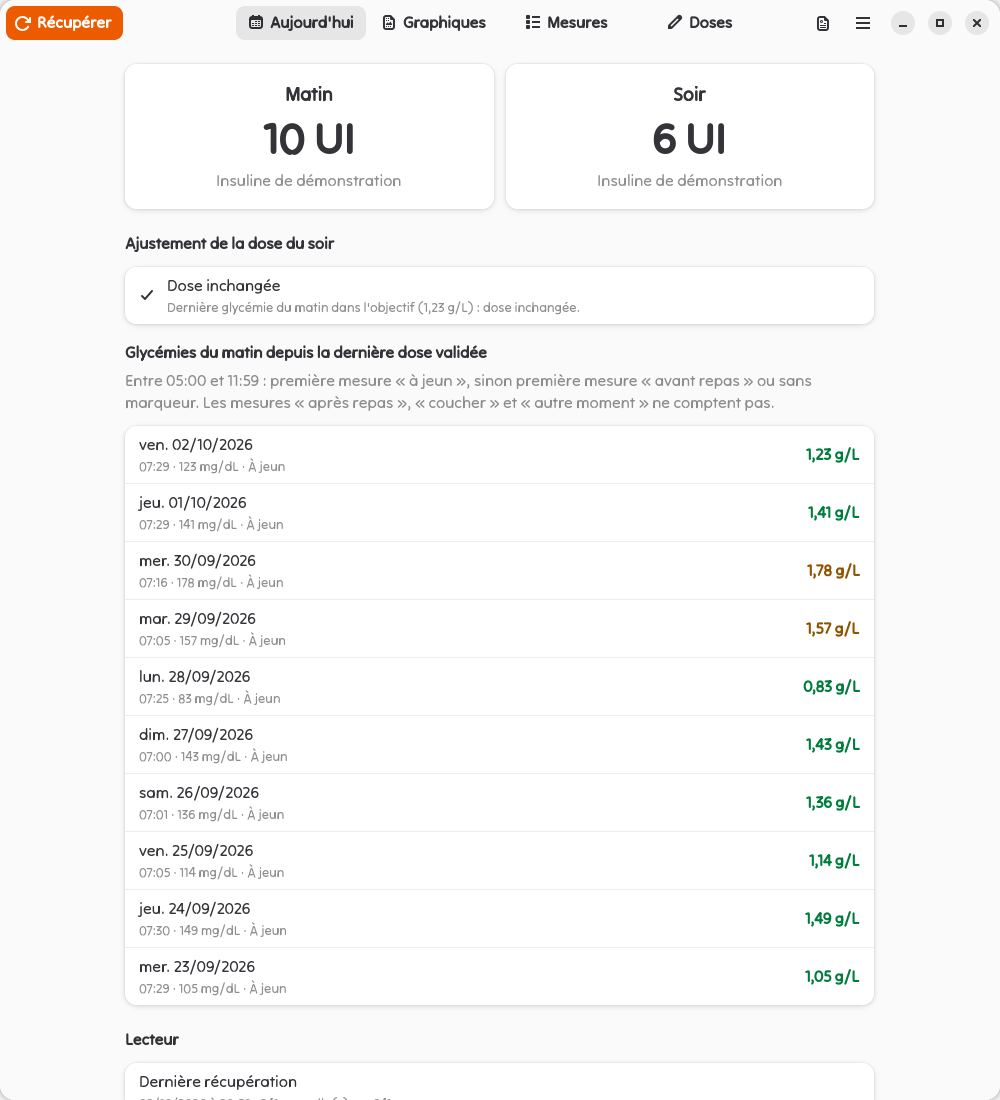
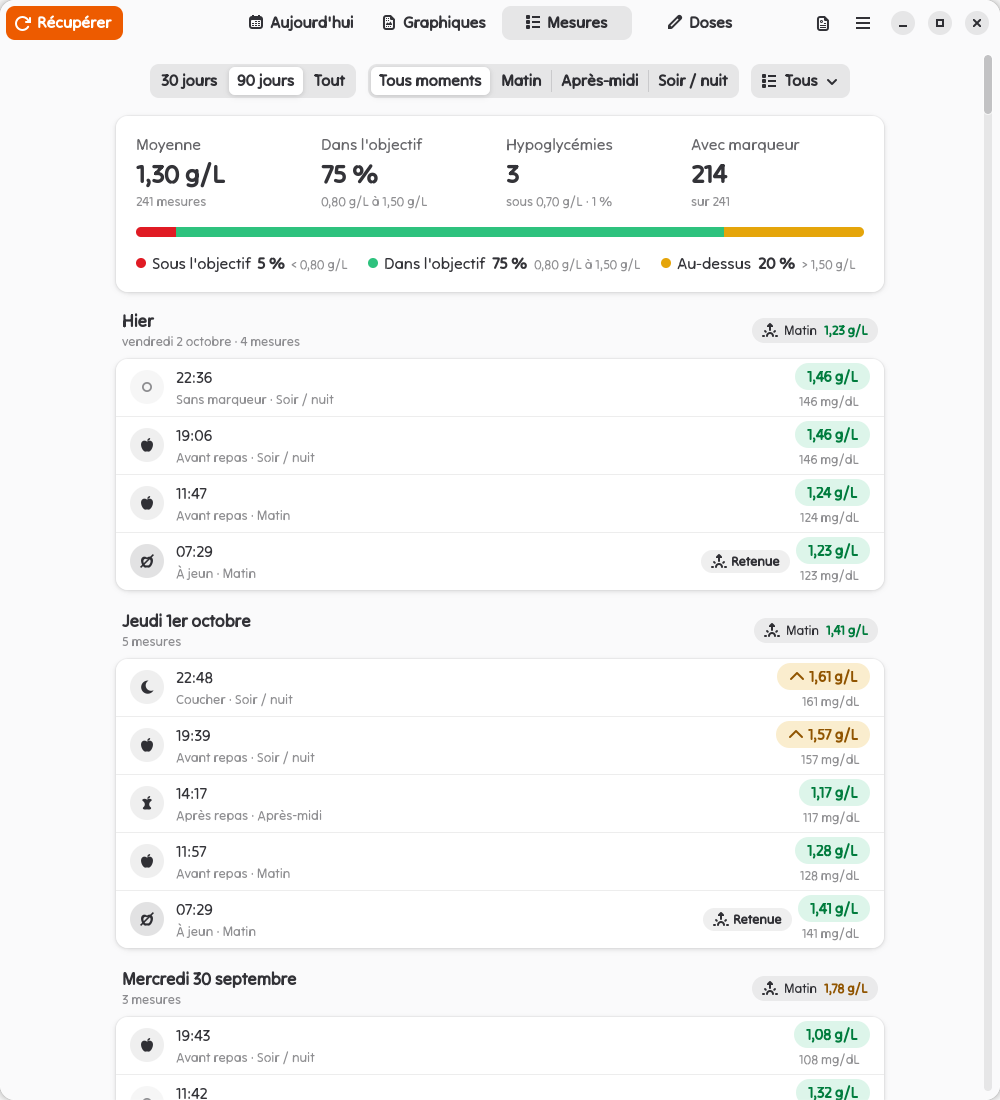
📸 Capture du README : nouvel onglet Mesures (données fictives)

diff --git a/README.md b/README.md
@@ -15,7 +15,7 @@ Application GTK4 / libadwaita pour Linux (Gnome) :
 - graphiques (14 / 30 / 90 jours) et export **PDF** pour le médecin.
 
 <p align="center">
-  <img src="docs/screenshots/aujourdhui.png" width="32%" alt="Onglet Aujourd'hui : doses et glycémies du matin">
+  <img src="docs/screenshots/aujourdhui.png" width="32%" alt="Onglet Mesures : résumé, répartition et mesures du jour avec leur marqueur">
   <img src="docs/screenshots/graphiques.png" width="32%" alt="Onglet Graphiques : courbe et glycémies du matin">
   <img src="docs/screenshots/premier-lancement.png" width="32%" alt="Premier lancement : protocole à recopier depuis l'ordonnance">
 </p>
